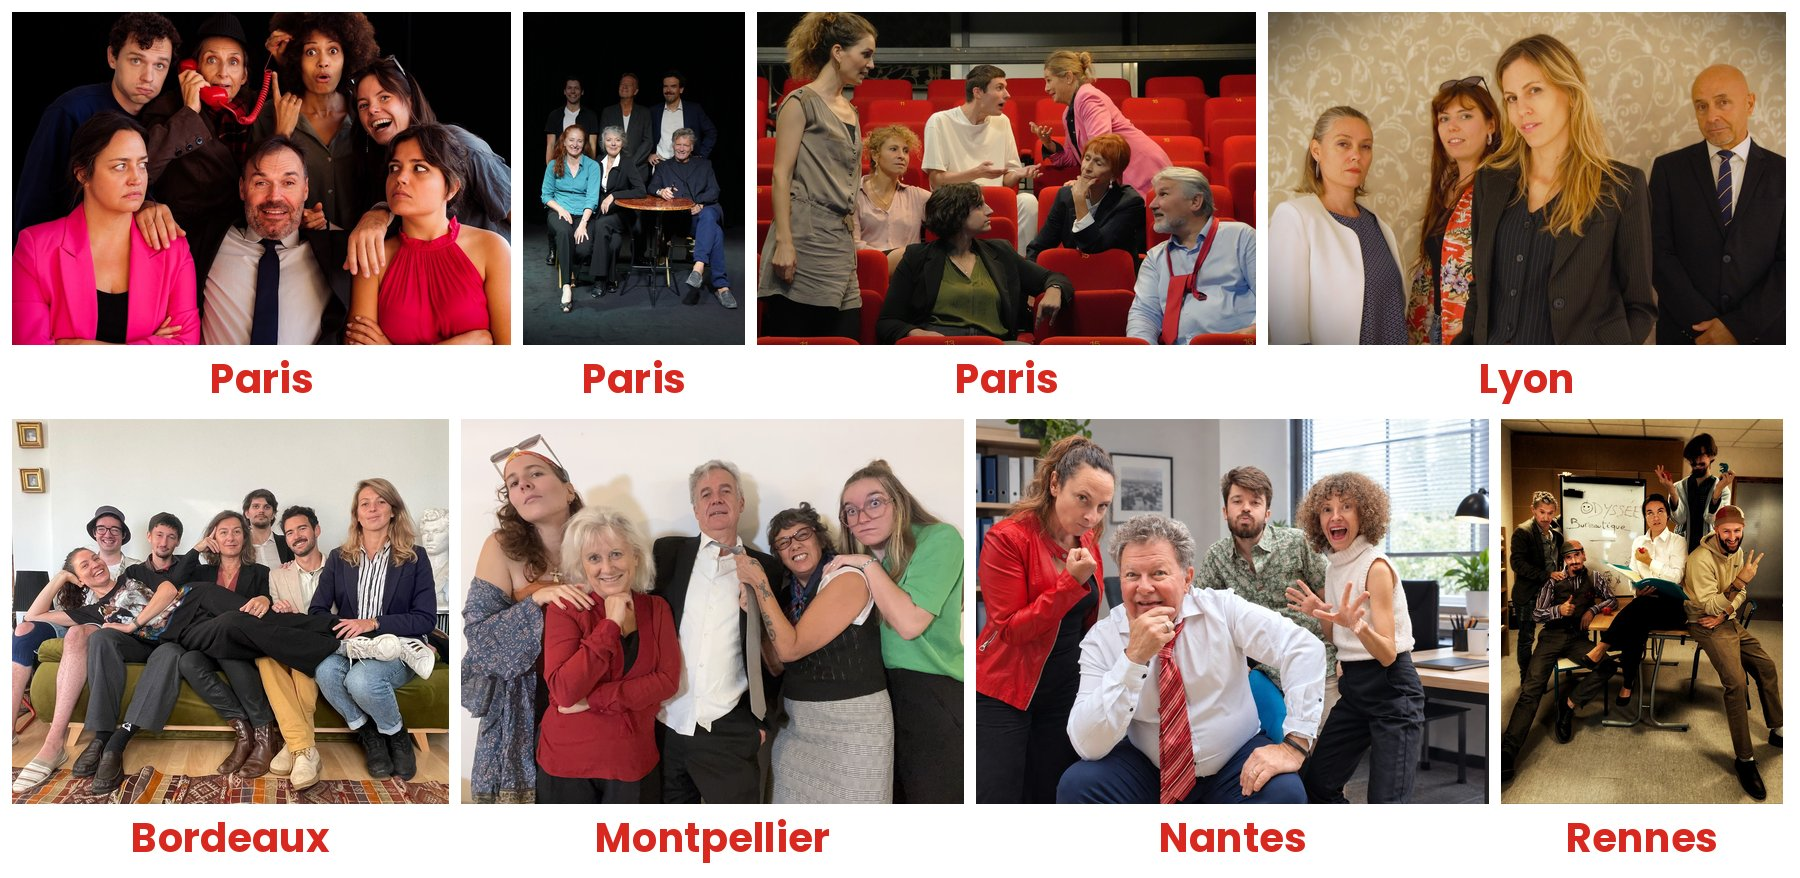
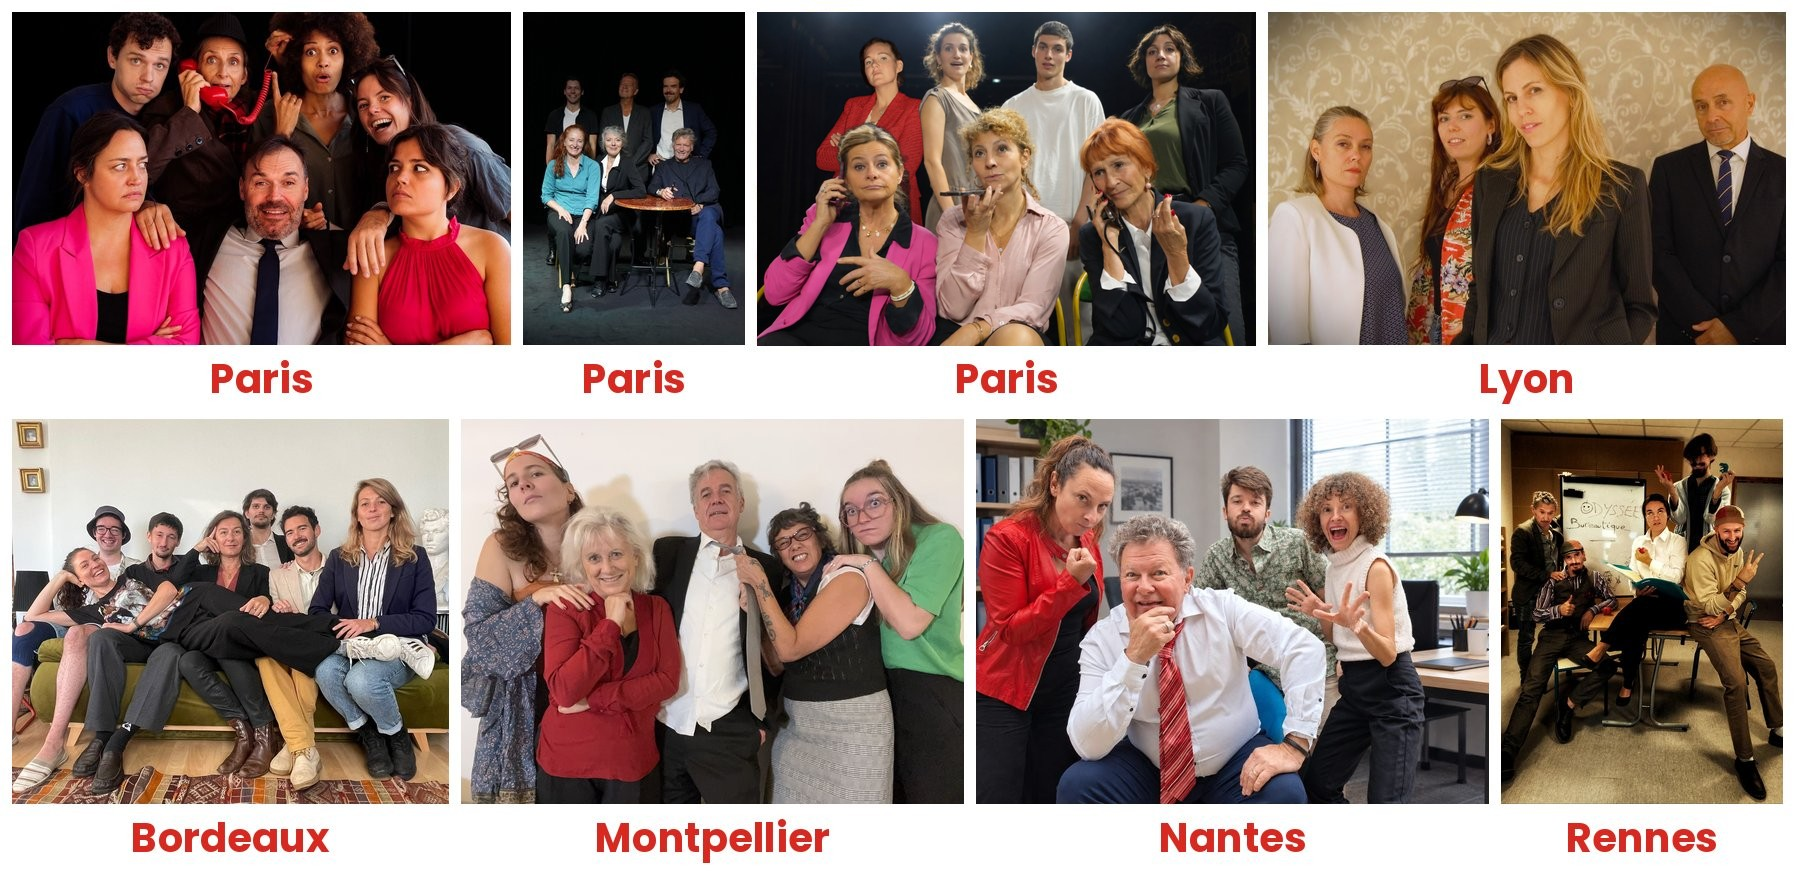
Mosaïque des troupes : nouvelle photo de la troupe Honnêteté
Claude-Session: https://claude.ai/code/session_01Mm1mn4rYRWAUCCDS1QTqVD

Changed region(s): [[0.4044, 0.0, 0.7156, 0.3998]]

diff --git a/index.html b/index.html
@@ -518,7 +518,7 @@ html{-webkit-text-size-adjust:100%;text-size-adjust:100%;}
       <details class="vd"><summary>Bordeaux<em>4 séances</em></summary><div class="vbody"><div class="vdates" data-ville="Bordeaux"></div><figure class="vtroupe"><img src="assets/troupes/troupe-bordeaux.jpg?v=2" alt="La troupe de Bordeaux" loading="lazy"><figcaption>La troupe de Bordeaux</figcaption></figure><a class="vprev" href="#prevenez-moi" data-ville="Bordeaux">Être prévenu pour Bordeaux &rarr;</a></div></details>
       <details class="vd"><summary>Lyon<em>2 séances</em></summary><div class="vbody"><div class="vdates" data-ville="Lyon"></div><a class="vprev" href="#prevenez-moi" data-ville="Lyon">Être prévenu pour Lyon &rarr;</a></div></details>
       <details class="vd"><summary>Nantes<em>Date à venir</em></summary><div class="vbody"><div class="vdates" data-ville="Nantes"></div><figure class="vtroupe" style="display:flex;flex-wrap:wrap;gap:6px"><img src="assets/troupes/troupe-nantes.jpg?v=1" alt="La troupe de Nantes" loading="lazy" data-ph="[&quot;assets/troupes/troupe-nantes.jpg?v=1&quot;,&quot;assets/troupes/troupe-nantes-2.jpg?v=1&quot;]" data-i="0" style="flex:1 1 45%;min-width:0"><img src="assets/troupes/troupe-nantes-2.jpg?v=1" alt="La troupe de Nantes" loading="lazy" data-ph="[&quot;assets/troupes/troupe-nantes.jpg?v=1&quot;,&quot;assets/troupes/troupe-nantes-2.jpg?v=1&quot;]" data-i="1" style="flex:1 1 45%;min-width:0"><figcaption style="flex-basis:100%">La troupe de Nantes</figcaption></figure><a class="vprev" href="#prevenez-moi" data-ville="Nantes">Être prévenu pour Nantes &rarr;</a></div></details>
-      <details class="vd" data-cvville="-"><summary>Toulouse<em>1 date</em></summary><div class="vbody"><div class="vgrp" data-cvville="-" data-troupe="surprise"><div class="vdates" data-ville="Toulouse"></div><p class="vavenir">Une des 8 troupes qui jouent la pièce aux quatre coins de la France viendra jouer à Toulouse : vous la découvrirez le soir même.</p><figure class="vtroupe"><img src="assets/troupes/troupes-france-mosaique.jpg?v=2" alt="Les 8 troupes d'ON VOUS RAPPELLERA : Paris (3 troupes), Lyon, Bordeaux, Montpellier, Nantes, Rennes" loading="lazy"><figcaption>Les 8 troupes — laquelle viendra à Toulouse&nbsp;?</figcaption></figure></div><!--/vgrp--><a class="vprev" href="#prevenez-moi" data-ville="Toulouse">Être prévenu pour Toulouse &rarr;</a></div></details>
+      <details class="vd" data-cvville="-"><summary>Toulouse<em>1 date</em></summary><div class="vbody"><div class="vgrp" data-cvville="-" data-troupe="surprise"><div class="vdates" data-ville="Toulouse"></div><p class="vavenir">Une des 8 troupes qui jouent la pièce aux quatre coins de la France viendra jouer à Toulouse : vous la découvrirez le soir même.</p><figure class="vtroupe"><img src="assets/troupes/troupes-france-mosaique.jpg?v=20261115" alt="Les 8 troupes d'ON VOUS RAPPELLERA : Paris (3 troupes), Lyon, Bordeaux, Montpellier, Nantes, Rennes" loading="lazy"><figcaption>Les 8 troupes — laquelle viendra à Toulouse&nbsp;?</figcaption></figure></div><!--/vgrp--><a class="vprev" href="#prevenez-moi" data-ville="Toulouse">Être prévenu pour Toulouse &rarr;</a></div></details>
       <details class="vd"><summary>Rennes<em>1 date</em></summary><div class="vbody"><div class="vdates" data-ville="Rennes"></div><figure class="vtroupe"><img src="assets/troupes/troupe-rennes.jpg?v=1791987028517" alt="La troupe de Rennes" loading="lazy"><figcaption>La troupe de Rennes</figcaption></figure><a class="vprev" href="#prevenez-moi" data-ville="Rennes">Être prévenu pour Rennes &rarr;</a></div></details>
       <details class="vd"><summary>Montpellier<em>Dès janvier 2027</em></summary><div class="vbody"><p class="vavenir">Date à venir.</p><figure class="vtroupe"><img src="assets/troupes/troupe-montpellier.jpg?v=1792701828929" alt="La troupe de Montpellier" loading="lazy"><figcaption>La troupe de Montpellier</figcaption></figure><a class="vprev" href="#prevenez-moi" data-ville="Montpellier">Être prévenu pour Montpellier &rarr;</a></div></details>
       <details class="vd"><summary>Marseille<em>Dès janvier 2027</em></summary><div class="vbody"><p class="vavenir">Date à venir.</p><a class="vprev" href="#prevenez-moi" data-ville="Marseille">Être prévenu pour Marseille &rarr;</a></div></details>
